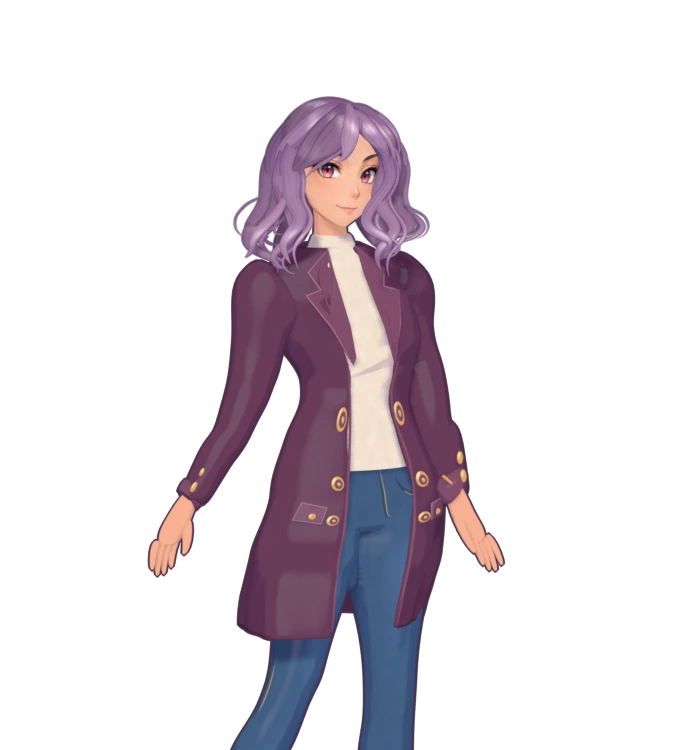
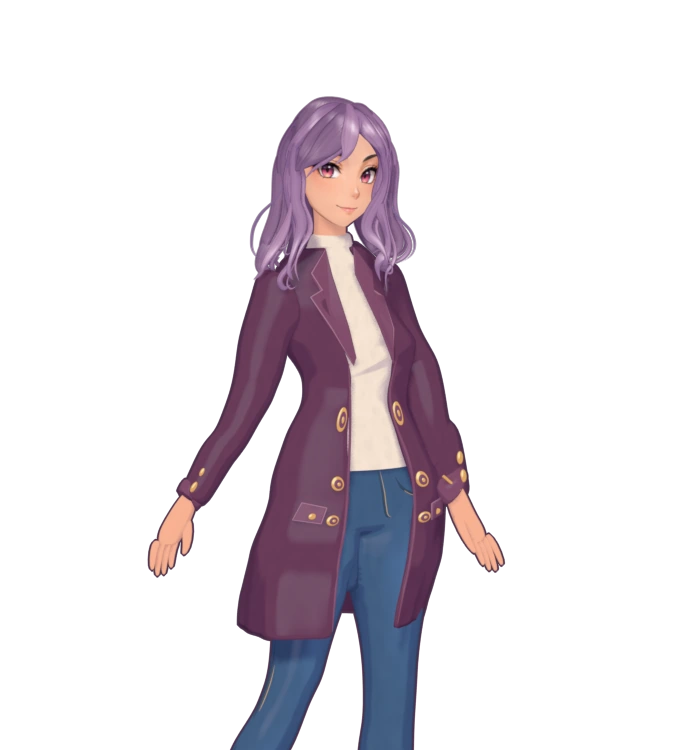
Fit the studio shoulders and wave silhouette to the wardrobe illustration

diff --git a/docs/avatar-3d.html b/docs/avatar-3d.html
@@ -7,7 +7,7 @@
 <meta name="description" content="같은 코디의 2D 원화와 3D 모델 렌더를 비교해 보세요.">
 <title>캐릭터 제작 시안 · 알찬끼</title>
 <link rel="stylesheet" href="./avatar-3d.css">
-<script type="module" src="./avatar-3d.mjs?v=16"></script>
+<script type="module" src="./avatar-3d.mjs?v=17"></script>
 </head>
 <body>
 <main>

diff --git a/scripts/avatar-studio/render.py b/scripts/avatar-studio/render.py
@@ -1200,8 +1200,9 @@ SILHOUETTE_HEIGHTS = [
 # Final image heights, in pixels, with the width and depth of each section.
 # The neckline and ankle keep their fit. The waist and calf taper gradually.
 TAILORING_PROFILE = [
-    (247, 1, 1), (277, .977, .979), (312, .926, .945),
-    (350, .915, .912), (392, .888, .887), (430, .879, .897),
+    (239, 1, 1), (257, .884, .96), (278, .742, .895),
+    (294, .746, .882), (311, .795, .889), (335, .861, .891),
+    (355, .866, .884), (392, .851, .872), (430, .873, .891),
     (472, .904, .927), (510, .941, .954), (552, .957, .975),
     (592, .948, .981), (642, .949, .991), (710, .934, .997),
     (790, .904, 1), (850, .936, 1), (899, 1, 1),
@@ -1261,10 +1262,21 @@ def fit_reference_pose(scene):
 
     def refit(point, region, side):
         x,y,depth = screen(point)
-        if region == "head":
-            # Keep the face, hair and hat in the same fitting group.
-            return view @ Vector((left+(340+(x-340)*.731)/px,
-                                  top-(97+(y-97)*.710)/py, depth))
+        if region in ("head", "hairstyle"):
+            x_fit = 340+(x-340)*.731
+            y_fit = 97+(y-97)*.710
+            # Tuck the outer volume around the portrait. The eye line and
+            # the inner fringe stay registered to the original face texture.
+            offset = x_fit-340
+            inner = 13+22*smooth_range(y_fit,110,151)
+            outer = smooth_range(abs(offset),inner,inner+29)
+            side_taper = .16-.075*smooth_range(y_fit,225,268)
+            x_fit -= offset*outer*side_taper
+            if region == "hairstyle":
+                # Carry the bend down to the sloping shoulder, leaving the
+                # fringe seated. The nape moves less than the outside locks.
+                y_fit += 22*smooth_range(y_fit,174,246)*(.42+.58*outer)
+            return view @ Vector((left+x_fit/px,top-y_fit/py,depth))
         y_fit, shift, width = body(y)
         x_fit = 340+(x-340)*width+shift
         axis_fit = 340+shift
@@ -1311,6 +1323,12 @@ def fit_reference_pose(scene):
         if region == "arm":
             # Let the bent elbows and wrists hang at their original reach.
             lifted += (y_fit-6-lifted)*smooth_range(y,330,545)
+        # The far shoulder falls away in this three-quarter pose. Shape
+        # sleeves, seams and torso together, fading back into the upper arm.
+        shoulder = smooth_range(lifted,227,258)*(1-smooth_range(lifted,296,363))
+        reach = smooth_range(abs(x_fit-axis_fit),15,81)
+        lifted += shoulder*reach*(9+8*smooth_range(x_fit-axis_fit,-15,49))
+        x_fit -= 4*shoulder
         return view @ Vector((left+x_fit/px,top-lifted/py,depth))
 
     bpy.context.view_layer.update()
@@ -1319,8 +1337,9 @@ def fit_reference_pose(scene):
             continue
         world = obj.matrix_world.copy()
         local = world.inverted()
-        if any(group.name.startswith(("Peach complexion", "Hair |"))
-               for group in obj.users_collection):
+        if any(group.name.startswith("Hair |") for group in obj.users_collection):
+            region = "hairstyle"
+        elif any(group.name.startswith("Peach complexion") for group in obj.users_collection):
             region = "head"
         else:
             region = obj.get("studio_region","body")

diff --git a/scripts/avatar-studio/STYLE-GUIDE.md b/scripts/avatar-studio/STYLE-GUIDE.md
@@ -6,6 +6,7 @@
 
 - 전신은 모자를 벗긴 상태에서 정수리와 발바닥 높이를 맞춰 비교한다. 같은 화면에서 허리선과 가랑이 높이, 무릎에서 발목까지의 흐름을 확인한다. 몸판과 데님의 세로 비율은 `SILHOUETTE_HEIGHTS`에서 함께 맞추고, 손은 소매와 함께 움직인다. 머리 크기를 조정할 때는 앞머리와 모자도 같이 움직여 목과 챙의 겹침을 확인한다.
 - `TAILORING_PROFILE`은 높이 구간마다 3D 메시의 폭과 깊이를 맞춘다. 어깨에서 허리로 이어지는 곡선과 종아리의 가늘어짐을 조절할 때 상의, 데님, 손과 소매에 공통으로 적용한다. 발목과 옷깃에서 인접 부위가 자연스럽게 이어지는지 확인한다.
+- 같은 카메라에서 비교할 때 목깃 아래의 어깨 기울기와 양쪽 소매 밖의 폭을 여러 높이에서 확인한다. 어깨 폭을 바꾸면 관자놀이와 턱 옆의 웨이브 폭도 함께 확인하고, 가닥이 가장 넓게 굽는 위치와 끝이 옷에 닿는 높이를 원화와 맞춘다.
 - 머리카락은 가르마에서 출발해 관자놀이와 어깨를 따라 크게 나눈다. 좌우 가닥의 끝 높이와 방향을 다르게 두고, 가닥끼리 겹치는 곳과 사이로 배경이 보이는 곳을 모두 만든다. 큰 곡선에는 가는 보조 가닥과 색선을 얹는다. 눈매와 볼을 드러내고 베레모 아래에서는 뿌리와 앞머리를 챙 안쪽으로 눌러 맞춘다.
 - 앞머리는 가르마에서 한쪽 눈썹을 스치도록 큰 가닥과 가는 끝 가닥을 겹친다. 두 가닥 사이로 이마가 갈라져 보이면 안쪽에 받치는 모발 면을 맞춘다. 반대편 눈썹과 양쪽 눈동자, 베레모 챙의 아랫선이 읽히는지 같은 배율로 확인한다.
 - 헤어 하나를 Blender 컬렉션 하나로 묶는다. 베레모 웨이브처럼 머리 장식이 있는 스타일은 장식의 챙·리본과 전용 앞머리를 같은 컬렉션에서 맞춘다. 웹과 원화 비교에서도 헤어를 고르면 짝지은 장식이 함께 적용된다.
